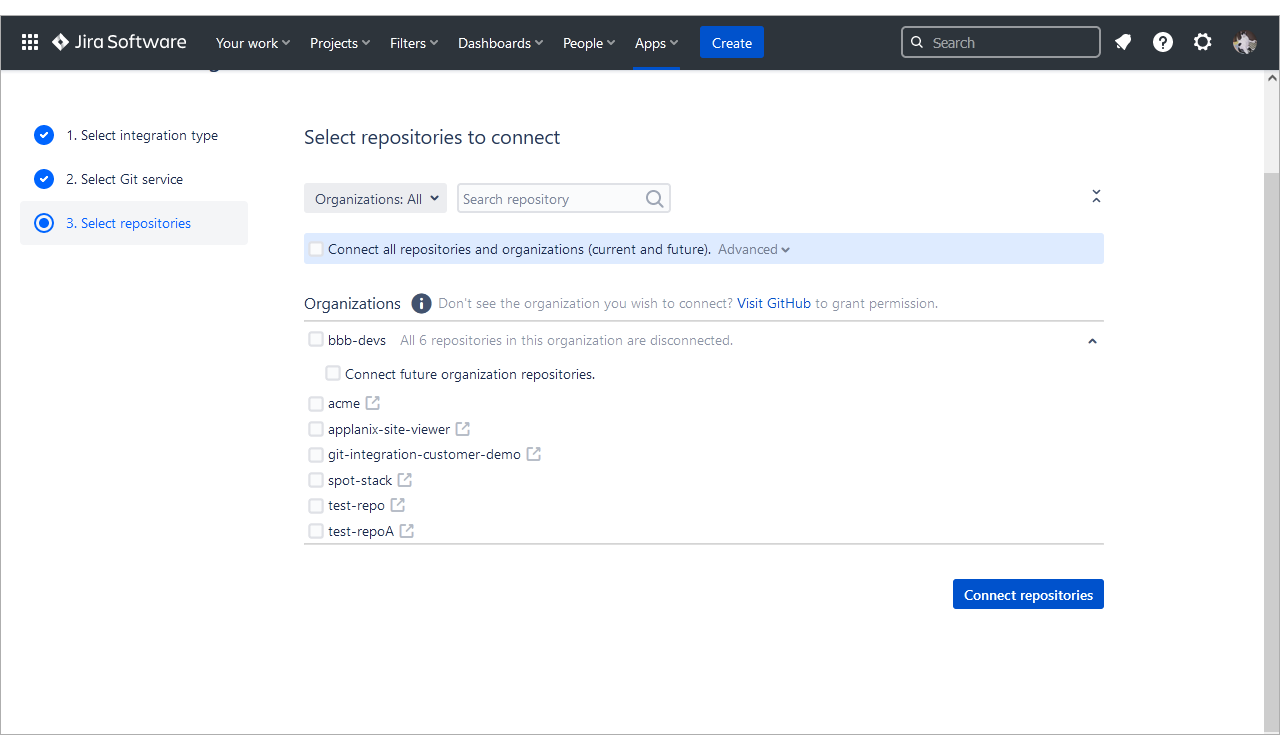
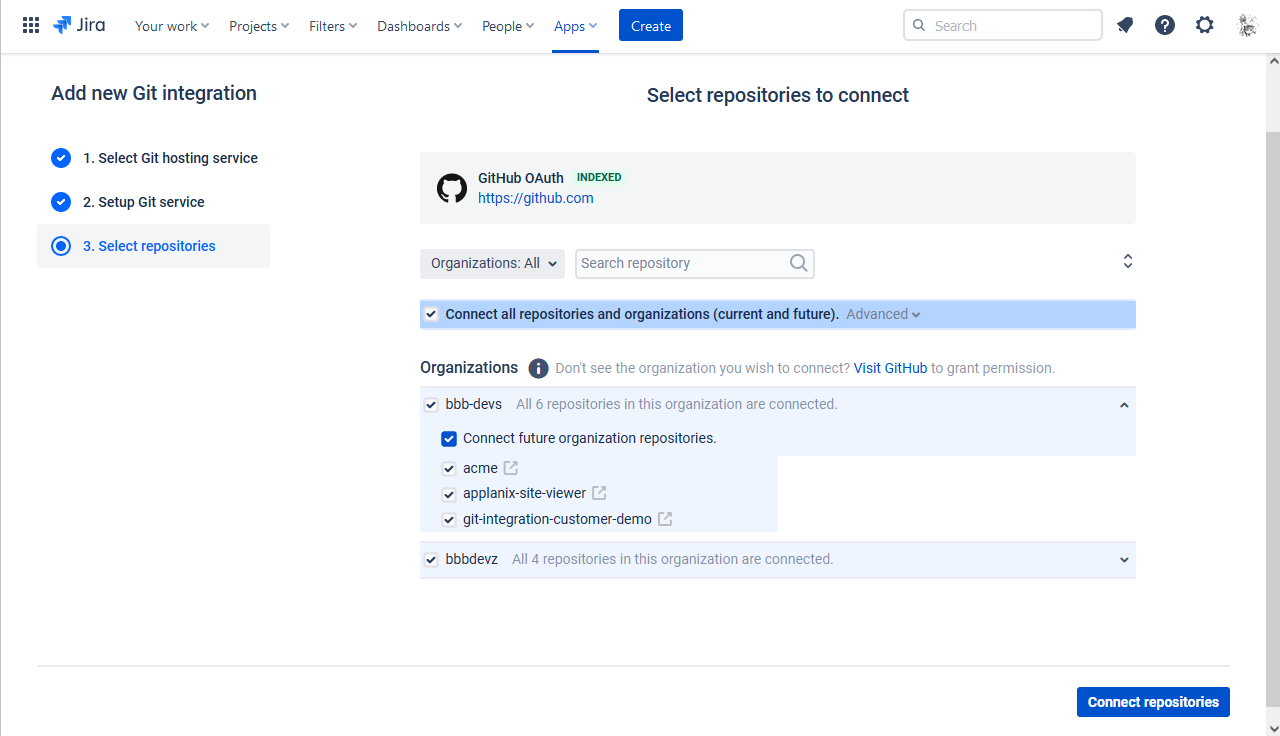
GIT-4997 Update formatting, fix links, fix missing imgs etc Update old screens/imgs Update old steps/info

diff --git a/git-integration-for-jira-cloud/github-com-gij-cloud.md b/git-integration-for-jira-cloud/github-com-gij-cloud.md
@@ -68,9 +68,9 @@ Quickly learn how to connect GitHub.com git repositories via Git Integration for
   - [More Integration Guides](#more-integration-guides)
 
 <br>
-
+<br>
 <hr>
-
+<br>
 <br>
 
 <div class='embed-container embed-container--16-10'>
@@ -81,6 +81,7 @@ Quickly learn how to connect GitHub.com git repositories via Git Integration for
     <i>Right click <a href='https://bigbrassband.wistia.com/medias/8jtnqzp79y'><b>here</b></a> to open this video in a new browser tab for more viewing options.</i><br>
     <i>Updated video coming soon</i>
 </div>
+<br>
 <br>
 
 ## Creating a personal access token
@@ -111,14 +112,14 @@ We recommend using the **Git service integration** panel to connect multiple rep
         <span class="logoimg"></span>
     </div>
     <div class="imsgbox">
-        On November 13, 2020, GitHub.com is going to stop allowing API authentication via username/password. For more information, see <a href='https://developer.github.com/changes/2020-02-14-deprecating-password-auth/'><b>GitHub.com - Deprecating Password Authentication</b></a>.<br>
-        <p style='margin-bottom:0 !important'>We strongly recommend to use personal access tokens for GitHub.com account integration.</p>
+        On November 13, 2020, GitHub.com is going to stop allowing API authentication via username/password. For more information, see <a href='https://developer.github.com/changes/2020-02-14-deprecating-password-auth/' target='_blank'><b>GitHub.com - Deprecating Password Authentication</b></a>.<br>
+        <p style='margin-bottom:-10px !important'>We strongly recommend to use personal access tokens for GitHub.com account integration.</p>
     </div>
     </div>
 </div>
 <br>
 
-1.  On your Jira dashboard menu, go to **Apps** ➜ **Git Integration: Manage integrations**.
+1.  On your Jira dashboard menu, go to Apps ➜ **Git Integration: Manage integrations**.
 
     ![](/wp-content/uploads/gij-gitcloud-jira-apps-manage-integrations-sel-c.png)
 
@@ -126,13 +127,21 @@ We recommend using the **Git service integration** panel to connect multiple rep
 
     ![](/wp-content/uploads/gij-gitcloud-managed-ui-webhook-idx-setup-c.png)
 
-3.  On the following screen, click on the **Git service integration** panel for your integration type.
+3.  For the following screen, click **GitHub.com** to start integration with this git service.
 
-    ![](/wp-content/uploads/gij-gitcloud-managed-ui-git-service-sel-c.png)
+    ![](/wp-content/uploads/gij-gitcloud-managed-ui-git-integration-type-github.png)
 
-4.  Select **GitHub.com** from the list then click **Connect GitHub.com**.
+4.  On the following screen, click on the **Git service integration** panel for your integration type.
 
-    ![](/wp-content/uploads/gij-gitcloud-github-integration-sel-service-c.png)
+    ![](/wp-content/uploads/gij-gitcloud-managed-ui-github-integration-oauth-01.png)
+
+5.  For this guide, click on the **OAuth integration** to select it.
+
+    *   We recommend the OAuth integration which is outlined like a setup wizard -- making it more easier for users to connect GitHub integrations.
+
+    *   For PAT integration, however, uses personal access tokens to setup GitHub integrations. Users will have to configure their own PAT from GitHub to use for this setup.
+
+    *   For GitHub webhook indexing integration, see [this article](/git-integration-for-jira-cloud/github-webhook-indexing-integration-gij-cloud) instead.
 
     *   Configuring the **Advanced** settings is optional. However, admins/power users may set how the project listing is displayed.
 
@@ -150,7 +159,9 @@ We recommend using the **Git service integration** panel to connect multiple rep
 
     *   While Custom API Path and JMESPath filter are mutually exclusive, you can use one, the other, both or neither.
 
-5.  **Login to your GitHub account when prompted.** When connecting to GitHub.com using OAuth for the first time, the user will be presented with a grant authorization screen.
+6.  Click **Connect to GitHub.com** to proceed to the next step.
+
+7.  **Login to your GitHub account when prompted.** When connecting to GitHub.com using OAuth for the first time, the user will be presented with a grant authorization screen.
 
     ![](/wp-content/uploads/gij-github-autoconnect-grant-auth-screen-c.png)
 
@@ -165,16 +176,16 @@ We recommend using the **Git service integration** panel to connect multiple rep
         ----------------------------------------------------------------------------
         OAuth                       User should notice and press the "Grant" button
                                     near the org repositories to connect them.
-
+        ----------------------------------------------------------------------------
         PAT                         Org repositories are connected immediately.
-
+        ----------------------------------------------------------------------------
         Username/Password           Org repositories are connected immediately.
         ```
 
     <br>
     *   Click **Authorize BigBrassBand** to continue.
 
-6.  The following page is displayed.
+8.  The following page is displayed.
 
     ![](/wp-content/uploads/gij-gitcloud-github-integration-oauth-sel-repos-c.png)
 
@@ -184,7 +195,7 @@ We recommend using the **Git service integration** panel to connect multiple rep
 
     *   Connect all repositories and organizations or select specific repositories to connect for this integration.
 
-7.  Click **Connect repositories** to complete this setup.
+9.  Click **Connect repositories** to complete this setup.
 
 
 The GitHub.com repositories are now connected to Jira Cloud. There will be a slight delay in adding 2FA-enabled repositories compared to others. These will show in the git configuration list eventually.
@@ -221,7 +232,7 @@ Assign GitHub permissions for team members or collaborators to allow which resou
 
 1.  Login to your GitHub.com account.
 
-2.  Go to <img src='/wp-content/uploads/gij-profile-icon.png' /> **Profile** ➜ **Settings**.
+2.  Go to <img src='/wp-content/uploads/gij-profile-icon.png' /> Profile ➜ **Settings**.
 
 3.  On your sidebar, click **Organizations**.
 
@@ -237,8 +248,7 @@ Assign GitHub permissions for team members or collaborators to allow which resou
 
 7.  **Save** the changes.
 
-
-For more information, see [**Access Permissions on GitHub »**](https://help.github.com/articles/access-permissions-on-github/).
+<div style='margin:25px 0 20px 0'>For more information, see [**Access Permissions on GitHub »**](https://help.github.com/articles/access-permissions-on-github/).</div>
 
 ### Teams and collaborators
 
@@ -384,7 +394,7 @@ The newly-created branch is now listed in the Jira developer panel under **Bran
 
 ### Creating pull requests
 
-The pull request feature works the same as merge request. On your Jira Cloud, open the Jira issue where your previously created a branch. On the developer panel under **Open** **Git Integration**, click **Create pull request**. The following dialog is displayed.
+The pull request feature works the same as merge request. On your Jira Cloud, open the Jira issue where your previously created a branch. On the developer panel under **Open Git Integration**, click **Create pull request**. The following dialog is displayed.
 
 ![](/wp-content/uploads/gij-gitcloud-issue-dev-panel-create-pull-req-dlg.png)
 

diff --git a/git-integration-for-jira-cloud/integration-guide-gij-cloud.md b/git-integration-for-jira-cloud/integration-guide-gij-cloud.md
@@ -6,80 +6,79 @@ taxonomy:
     category: git-integration-for-jira-cloud
 
 ---
+
 Welcome to the Git Integration for Jira app reference page index for topics about integration of git repositories to Jira Cloud.
 
 On this page, you will find the list of integration guides for specific git hosts. For general Jira git integration, see our **[Introduction to Git integration](/git-integration-for-jira-cloud/introduction-to-git-integration-gij-cloud)** to get you more familiar with integration, viewing commits inside Jira, smart commits, and many more.
 
 Click on a topic title to view its content or search through the related topics.
 
-
-
- Search
-
-
-
-
+<br>
 
 * * *
 
-
-
-
-
-[GitLab.com](/git-integration-for-jira-cloud/gitlab-com-gij-cloud)
+<img src='/wp-content/uploads/gij-gitlab-mobile.png' width=40 height=40 style='display:inline-block;margin:15px 10px 0 0;' /> [**GitLab.com**](/git-integration-for-jira-cloud/gitlab-com-gij-cloud)<sup>1</sup>
 
 Connect your GitLab.com remote repositories via Connect to Git Repository wizard or Connect to GitLab wizard.
 
+* * *
 
-
-[GitLab CE/EE Server](/git-integration-for-jira-cloud/gitlab-ce-ee-gij-cloud)
+<img src='/wp-content/uploads/gij-gitlab-icon-ee32.png' width=40 height=40 style='display:inline-block;margin:15px 10px 0 0;' /> [**GitLab CE/EE Server**](/git-integration-for-jira-cloud/gitlab-ce-ee-gij-cloud)<sup>1</sup>
 
 Connect and manage multiple GitLab server repositories at once via **Connect to GitLab wizard** and the **Show connected repositories** dialog.
 
+* * *
 
-
-[GitHub.com](/git-integration-for-jira-cloud/github-com-gij-cloud)
+<img src='/wp-content/uploads/github-mobile-dark.png' width=40 height=40  style='display:inline-block;margin:15px 10px 0 0;' /> [**GitHub.com**](/git-integration-for-jira-cloud/github-com-gij-cloud)
 
 Connect your GitHub remote repositories via Connect to Git Repository Wizard.
 
+* * *
 
-
-[GitHub Enterprise Server](/git-integration-for-jira-cloud/github-enterprise-server-gij-cloud)
+<img src='/wp-content/uploads/gij-github-ent-64.png' width=40 height=40  style='display:inline-block;margin:15px 10px 0 0;' /> [**GitHub Enterprise Server**](/git-integration-for-jira-cloud/github-enterprise-server-gij-cloud)
 
 Connect your GitHub Enterprise remote repositories via Connect to Git Repository Wizard.
 
+* * *
 
+<img src='/wp-content/uploads/gij-vsts-azure-devops-logo2.png' width=40 height=40  style='display:inline-block;margin:15px 10px 0 0;' /> [**VSTS / Azure DevOps**](/git-integration-for-jira-cloud/azure-devops-visual-studio-team-services-vsts-gij-cloud)
 
-[Azure DevOps / Visual Studio Team Services (VSTS)](/git-integration-for-jira-cloud/azure-devops-visual-studio-team-services-vsts-gij-cloud)
+Connect to Visual Studio Team Services (VSTS) / Azure DevOps via Auto-Connect integration panel in Manage Git Repositories.
 
-Connect to Visual Studio Team Services (VSTS) / Azure DevOps via Full feature integrations panel in Manage Git repositories.
+* * *
 
+<img src='/wp-content/uploads/gij-tfs-icon.png' width=40 height=40  style='display:inline-block;margin:15px 10px 0 0;' /> [TFS / Azure DevOps Server](/git-integration-for-jira-cloud/azure-devops-server-team-foundation-services-tfs-gij-cloud)
 
+Connect to Team Foundation Server (TFS) / Azure DevOps Server via Auto-Connect integration panel in Manage Git Repositories.
 
-[Azure DevOps Server | Team Foundation Services (TFS)](/git-integration-for-jira-cloud/azure-devops-server-team-foundation-services-tfs-gij-cloud)
+* * *
 
-Connect to Team Foundation Server (TFS) via Full feature integrations panel in Manage Git repositories.
+<img src='/wp-content/uploads/gij-aws-codecommit-icon.png' width=40 height=40  style='display:inline-block;margin:15px 10px 0 0;' /> [AWS CodeCommit](/git-integration-for-jira-cloud/aws-codecommit-gij-cloud)
 
+Connect your AWS CodeCommit repositories via Git Integration for Jira app in Jira Data Center.
 
+* * *
 
-[AWS CodeCommit](/git-integration-for-jira-cloud/aws-codecommit-gij-cloud)
-
-Connect your AWS CodeCommit repositories via Git Integration for Jira app in Jira Cloud.
-
-
-
-[Gerrit](/git-integration-for-jira-cloud/gerrit-gij-cloud)
-
-Connect your Gerrit repositories via Git Integration for Jira app in Jira Cloud.
-
-
-
-[Bitbucket Cloud](/git-integration-for-jira-cloud/bitbucket-cloud-gij-cloud)
+<img src='/wp-content/uploads/gij-bitbucket-mobile.png' width=44 height=40  style='display:inline-block;margin:15px 10px 0 0;' /> [Bitbucket Server](/git-integration-for-jira-cloud/bitbucket-cloud-gij-cloud)
 
 Integrate Bitbucket Server git repositories via Git Integration for Jira app using HTTP/SSH connection.
 
+* * *
+
+<img src='/wp-content/uploads/gij-bonobo-icon.png' width=40 height=40  style='display:inline-block;margin:15px 10px 0 0;' /> [Plain Git repository](/git-integration-for-jira-cloud/connecting-to-a-single-git-repository-http-https-gij-cloud)
+
+Connect Bonobo git repositories via Git Integration for Jira app in Jira Data Center.
+
+* * *
+
+<p>&nbsp;</p>
+
+<br>
+<br>
+<div style='border-top: 1px solid #456; width: 40%; padding-bottom: 12px'></div>
+<div style='font-size: 12px;'>
+    <sup>1</sup> <i>Logo owned by <a href='https://gitlab.com/'>GitLab Inc</a> used under <a href='https://creativecommons.org/licenses/by-nc-sa/4.0/'>license</a>.
+    <p>&nbsp;&nbsp;All product names, logos, and brands are property of their respective owners.<p><i>
+</div>
 
 
-1 Logo owned by [GitLab Inc](https://gitlab.com/) used under [license](https://creativecommons.org/licenses/by-nc-sa/4.0/)
-
-All product names, logos, and brands are property of their respective owners.

diff --git a/git-integration-for-jira-cloud/git-integration-for-jira-home-gij-cloud.md b/git-integration-for-jira-cloud/git-integration-for-jira-home-gij-cloud.md
@@ -11,33 +11,33 @@ Everything you need to know about Git Integration for Jira Cloud.
 
 Check out the links below to get started with Git Integration for Jira. Use the left navigation to explore further.
 
-Looking for information on the server or data center version? [Click here](/git-integration-for-jira-data-center/git-integration-for-jira-home-self-manged/)
+Looking for information on the server or data center version? [Click here](/git-integration-for-jira-data-center/git-integration-for-jira-home-self-manged)
 
 ## Getting started
 
 <div class='embed-container embed-container--16-9'>
-        <iframe width='709' height='443' src='https://fast.wistia.net/embed/iframe/8c0iq4hwdt?videoFoam=true' frameborder='0' allowfullscreen ></iframe>
-</div> 
+    <iframe width='709' height='443' src='https://fast.wistia.net/embed/iframe/8c0iq4hwdt?videoFoam=true' frameborder='0' allowfullscreen ></iframe>
+</div>
 
-Direct links to the above [Getting started](https://bigbrassband.wistia.com/medias/8c0iq4hwdt) video as well as [Installation](https://bigbrassband.wistia.com/medias/m9u64t1a3h) video.
+<div style='margin-top:20px'>Direct links to the above <a href='https://bigbrassband.wistia.com/medias/8c0iq4hwdt'>Getting started</a> video as well as <a href='https://bigbrassband.wistia.com/medias/m9u64t1a3h'>Installation</a> video.</div>
 
 ***
 
 ## Knowledgebase  
 
-- [Integration Guides](git-integration-for-jira-cloud/integration-guide-gij-cloud/) - All about setting up and using Git Integration for Jira with your preffered git provider.
-- [Features](git-integration-for-jira-self-managed/features-gij-cloud/) - Learn more about all of the offered features.
-- [Frequently Asked Questions](/git-integration-for-jira-self-managed/frequently-asked-questions-gij-cloud/) - Find answers to frequently asked questions.
-- [How-to Articles](/git-integration-for-jira-self-managed/how-to-articles-gij-cloud/) - Learn how to do common setups and workflows.
-- [Troubleshooting](/git-integration-for-jira-self-managed/troubleshooting-articles-gij-cloud/) - In-depth articles to help you diagnose and solve problems. 
-- [Known Issues](/git-integration-for-jira-self-managed/known-issues-gij-cloud/) - problems that occur with some configurations their accompanying workarounds.
-- [Hooks and Webhooks](git-integration-for-jira-self-managed/hooks-and-webhooks-gij-cloud/) - all about hooks!
+- [Integration Guides](git-integration-for-jira-cloud/integration-guide-gij-cloud) - All about setting up and using Git Integration for Jira with your preffered git provider.
+- [Features](git-integration-for-jira-self-managed/features-gij-cloud) - Learn more about all of the offered features.
+- [Frequently Asked Questions](/git-integration-for-jira-self-managed/frequently-asked-questions-gij-cloud) - Find answers to frequently asked questions.
+- [How-to Articles](/git-integration-for-jira-self-managed/how-to-articles-gij-cloud) - Learn how to do common setups and workflows.
+- [Troubleshooting](/git-integration-for-jira-self-managed/troubleshooting-articles-gij-cloud) - In-depth articles to help you diagnose and solve problems. 
+- [Known Issues](/git-integration-for-jira-self-managed/known-issues-gij-cloud) - problems that occur with some configurations their accompanying workarounds.
+- [Hooks and Webhooks](git-integration-for-jira-self-managed/hooks-and-webhooks-gij-cloud) - all about hooks!
 
 ***
 
 ## Additional Resources
 
-- [Video Guides](/git-integration-for-jira-self-managed/git-integration-jira-data-center-video-guides/) - List of video guides to aid you in your Git Integration for Jira journey.
+- [Video Guides](/git-integration-for-jira-self-managed/git-integration-jira-data-center-video-guides) - List of video guides to aid you in your Git Integration for Jira journey.
 - [Version History](https://marketplace.atlassian.com/apps/4984/git-integration-for-jira/version-history) - Find out what changes were implemented when.
 
 Join our GitKraken public slack community and interact with other Git Integration for Jira users from around the world 🌐.
